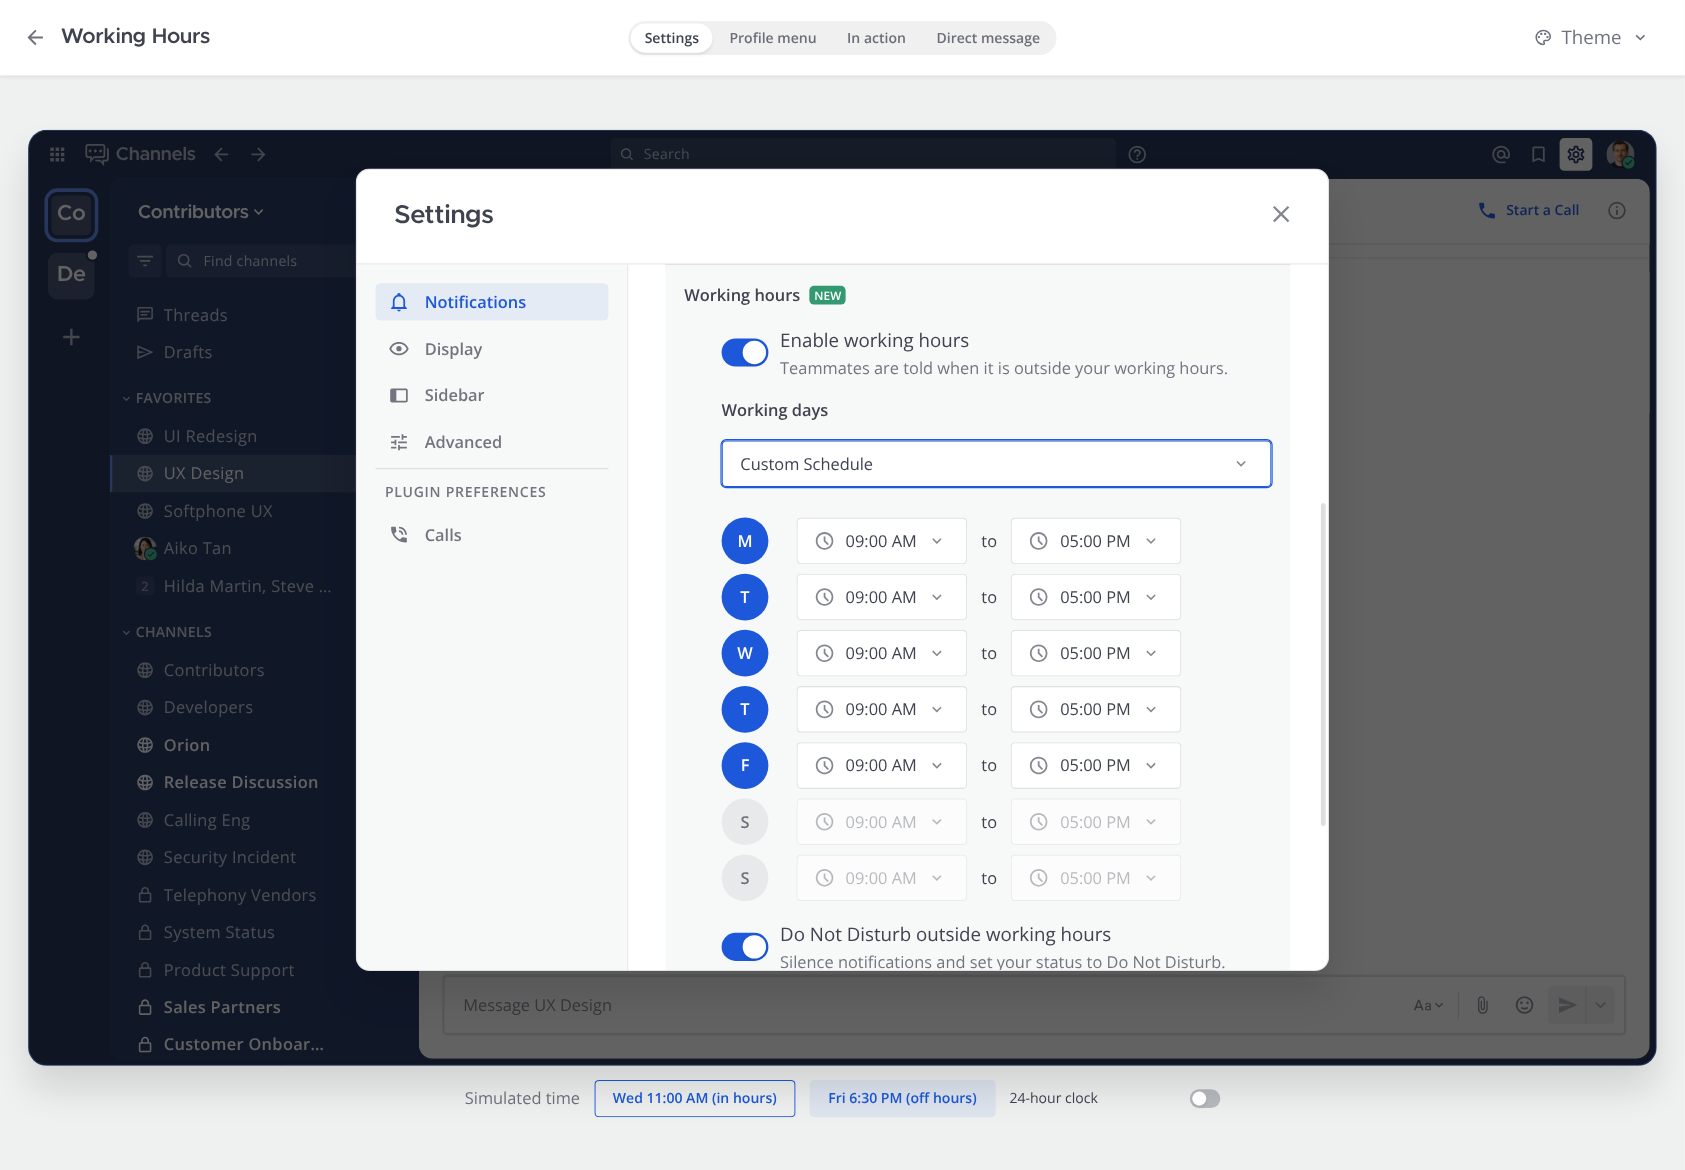
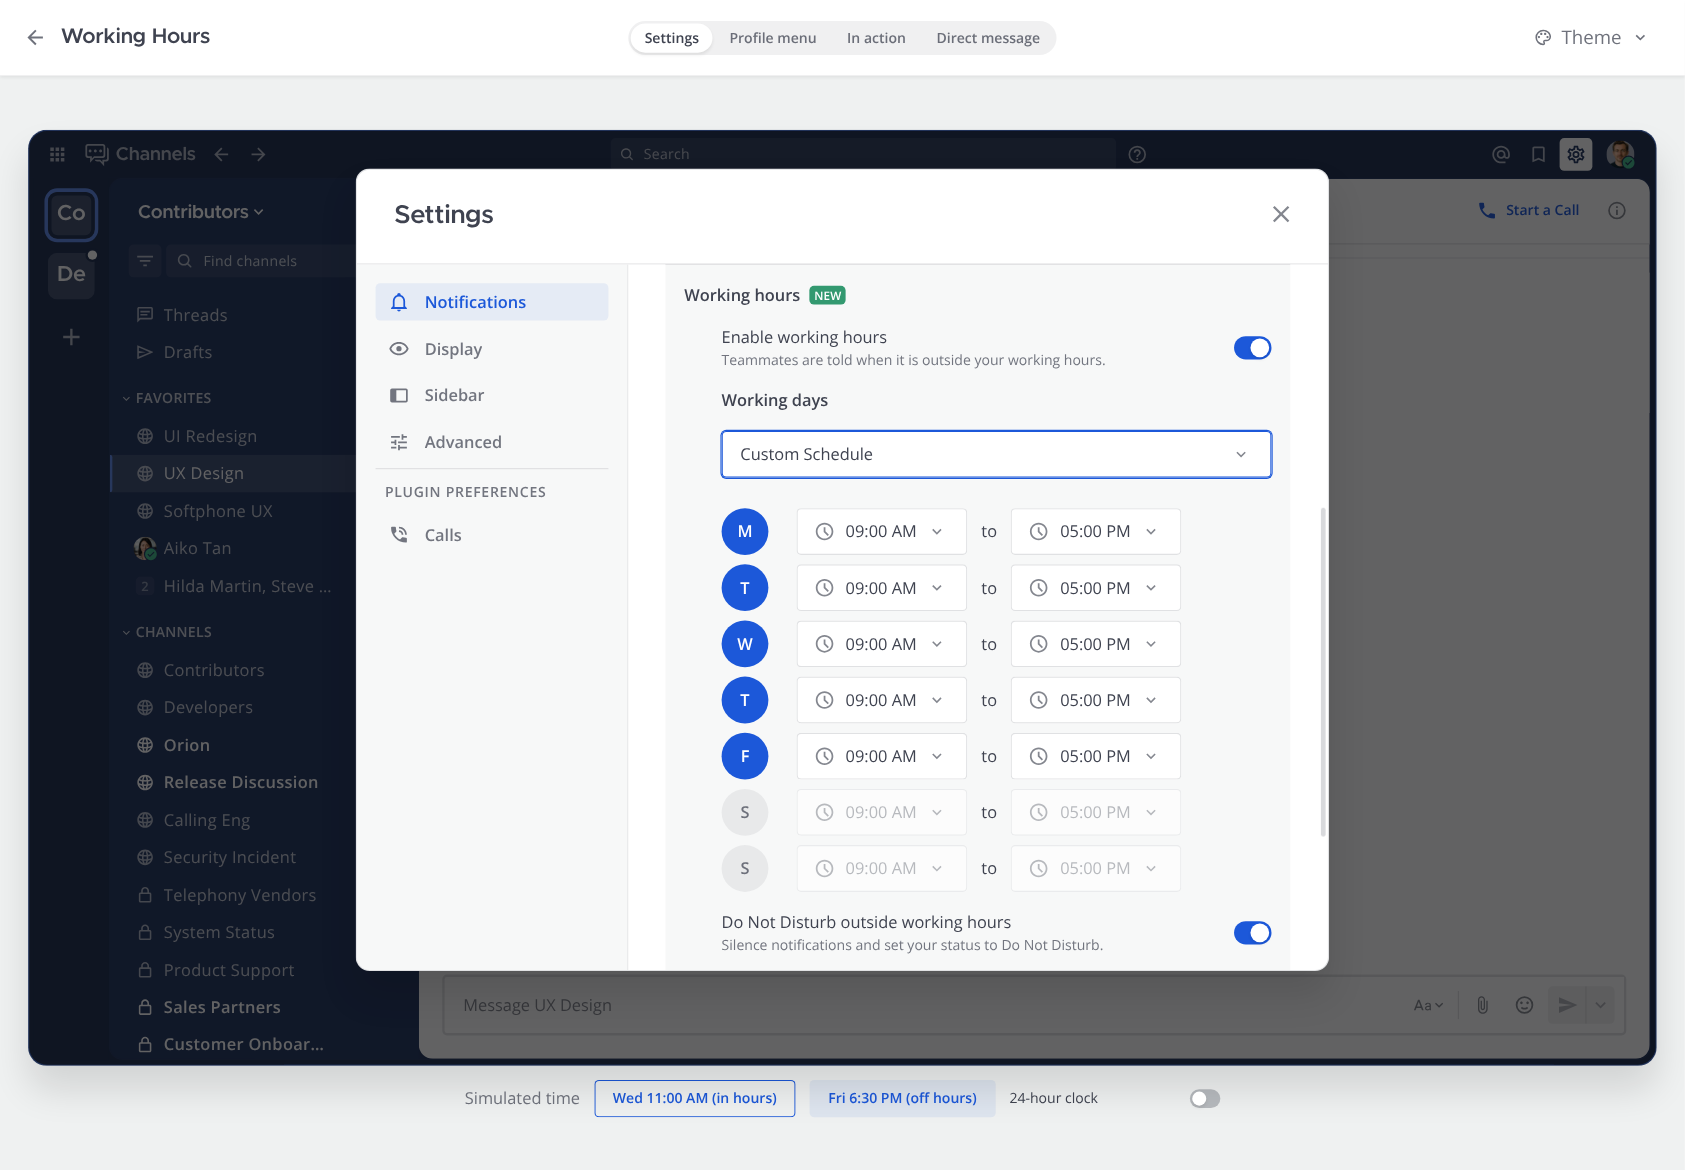
Use stock medium Switch in the Working hours settings pane
Drop size=large and the settings__switch layout override.

Claude-Session: https://claude.ai/code/session_01DxJehdH2u6bRBey2KVCRaq

diff --git a/src/pages/prototypes/working-hours/components/NotificationsSettings.tsx b/src/pages/prototypes/working-hours/components/NotificationsSettings.tsx
@@ -182,8 +182,7 @@ export default function NotificationsSettings({
                     className={styles['notifications-settings__section-body']}
                   >
                     <Switch
-                      size="large"
-                      className={formStyles['settings__switch']}
+                      size="medium"
                       checked={draft.enabled}
                       onChange={(e) =>
                         onDraftChange({ ...draft, enabled: e.target.checked })
@@ -212,8 +211,7 @@ export default function NotificationsSettings({
                           className={styles['notifications-settings__options']}
                         >
                           <Switch
-                            size="large"
-                            className={formStyles['settings__switch']}
+                            size="medium"
                             checked={draft.dndOutside}
                             onChange={(e) =>
                               onDraftChange({
@@ -226,8 +224,7 @@ export default function NotificationsSettings({
                             Do Not Disturb outside working hours
                           </Switch>
                           <Switch
-                            size="large"
-                            className={formStyles['settings__switch']}
+                            size="medium"
                             checked={draft.statusOutside}
                             onChange={(e) =>
                               onDraftChange({

diff --git a/src/pages/prototypes/working-hours/WorkingHours.module.scss b/src/pages/prototypes/working-hours/WorkingHours.module.scss
@@ -117,18 +117,6 @@
 }
 
 // ---------------------------------------------------------------------------
-// ---------------------------------------------------------------------------
-// Settings form helpers (modal shell and rows live in components/*.module.scss)
-// ---------------------------------------------------------------------------
-.settings {
-  // Figma puts the toggle before its label; Compass Switch renders the label first.
-  &__switch {
-    flex-direction: row-reverse;
-    justify-content: flex-end;
-    gap: var(--spacing-s);
-  }
-}
-
 // Schedule form (desktop)
 // ---------------------------------------------------------------------------
 .schedule-form {
